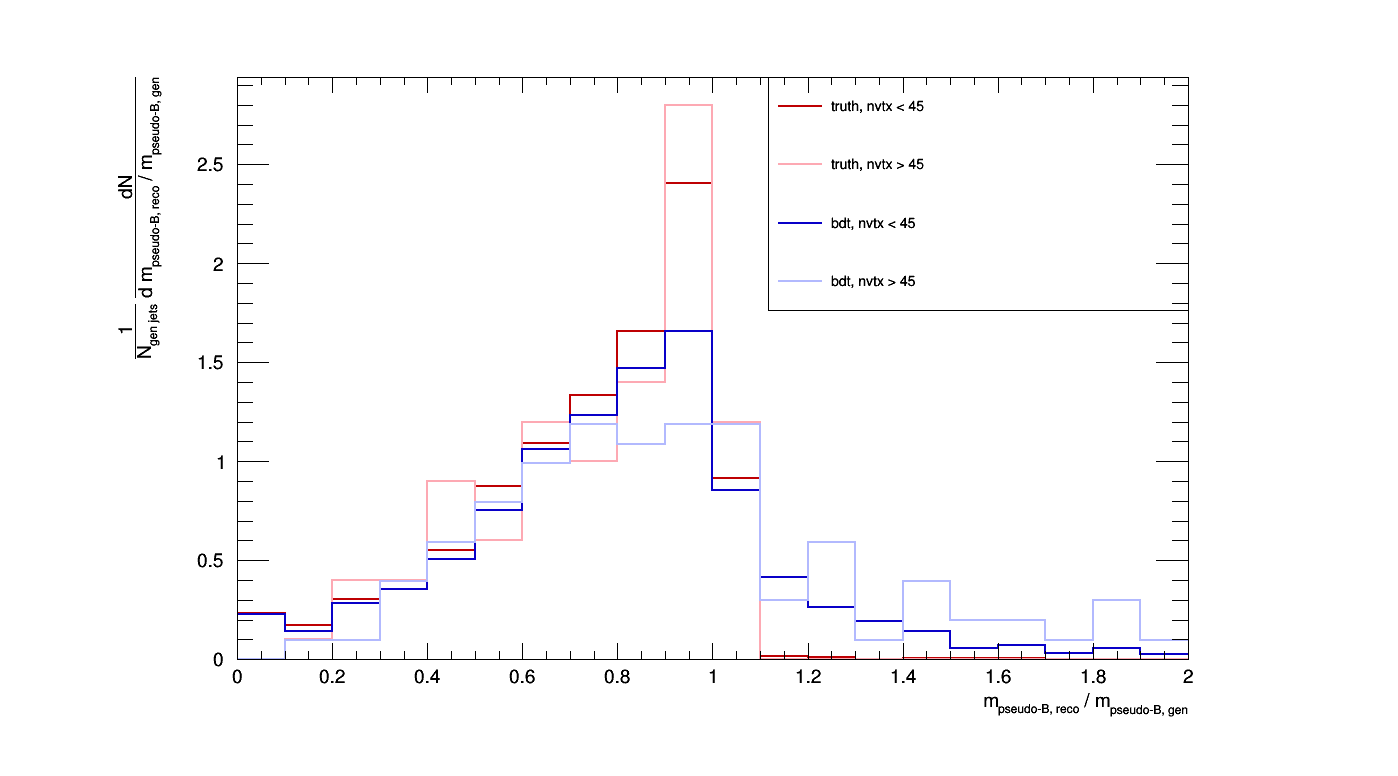
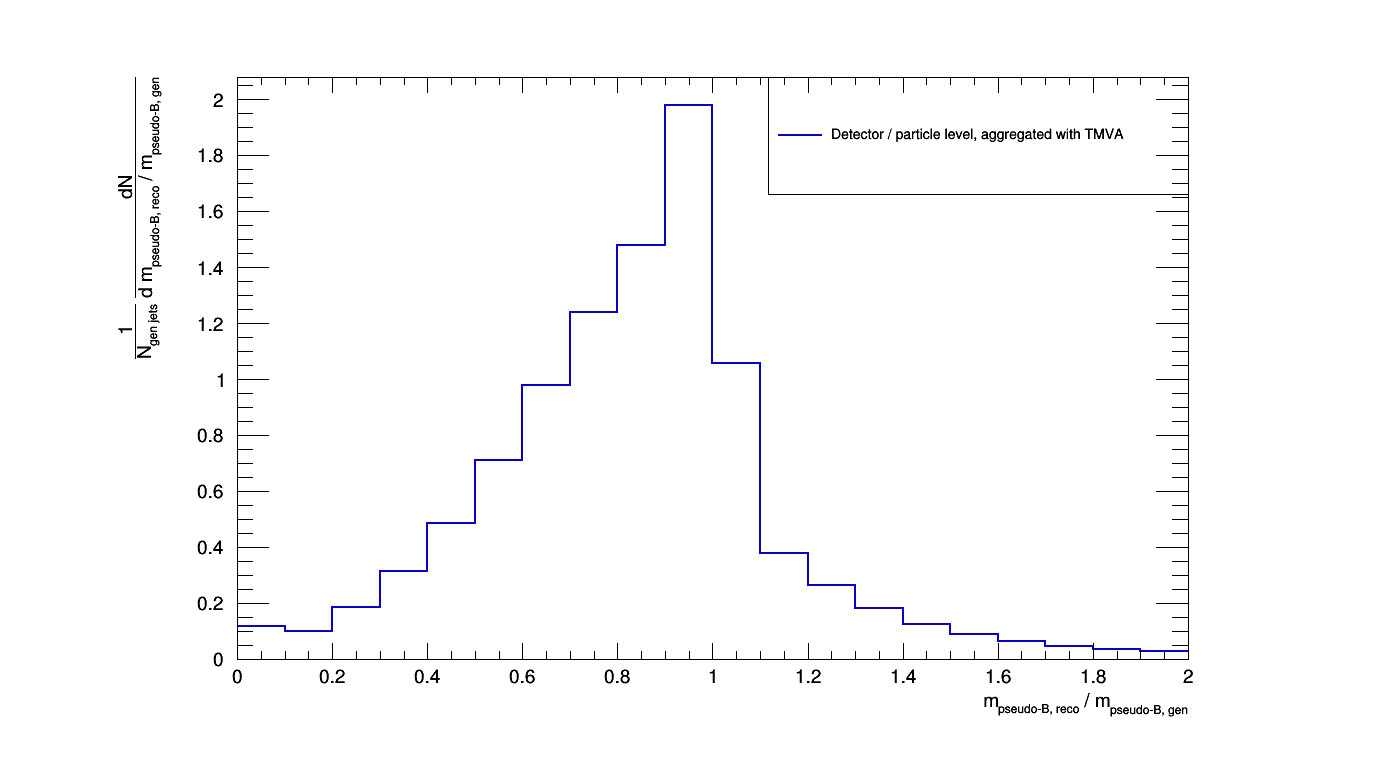
update mB plot

diff --git a/myMacros/C106X/draw_mB.C b/myMacros/C106X/draw_mB.C
@@ -59,90 +59,90 @@ void draw_mB()
     // cTest->Draw();
 
     // ---- Load the histos
-    TString fdir = "./histos/";
-    TString label = "mB";
-    TString suffix_truth = "_truth";
-    TString fname_truth = label + suffix_truth + ".root";
-    TString rootf_truth = fdir + fname_truth;
+    TString indir = "./histos/";
+    // TString fdir = "./histos/";
+    // TString label = "mB";
+    // TString suffix_truth = "_truth";
+    // TString fname_truth = label + suffix_truth + ".root";
+    // TString rootf_truth = fdir + fname_truth;
 
-    TFile *fin_truth = new TFile(rootf_truth);
+    // TFile *fin_truth = new TFile(rootf_truth);
 
-    TH3D *hmB_truth_3d = (TH3D *)fin_truth->Get("hmBtag");
-    hmB_truth_3d->SetName(TString(hmB_truth_3d->GetName()) + "_truth");
+    // TH3D *hmB_truth_3d = (TH3D *)fin_truth->Get("hmBtag");
+    // hmB_truth_3d->SetName(TString(hmB_truth_3d->GetName()) + "_truth");
 
-    TString suffix_bdt = "_bdt29";
-    TString fname_bdt = label + suffix_bdt + ".root";
-    TString rootf_bdt = fdir + fname_bdt;
+    // TString suffix_bdt = "_bdt29";
+    TString label_aggrTMVA = "aggrTMVA";
+    TString fname_aggrTMVA = indir + label_aggrTMVA + "_mB.root";
 
-    TFile *fin_bdt = new TFile(rootf_bdt);
+    TFile *fin_aggrTMVA = new TFile(fname_aggrTMVA);
 
-    TH3D *hmB_bdt_3d = (TH3D *)fin_bdt->Get("hmBtag");
-    hmB_bdt_3d->SetName(TString(hmB_bdt_3d->GetName()) + "_bdt");
+    TH3D *hBtag_mB_ratio = (TH3D *)fin_aggrTMVA->Get("hBtag_mB_ratio");
+    hBtag_mB_ratio->SetName(TString(hBtag_mB_ratio->GetName()) + "_" + label_aggrTMVA);
 
     // ---- Find bins 
-    Int_t iyminLow = 1;
-    Int_t iymaxLow = hmB_truth_3d->GetYaxis()->FindBin(lowNvtxMax) - 1;
-
-    Int_t iyminHigh = hmB_truth_3d->GetYaxis()->FindBin(highNvtxMin);
-    Int_t iymaxHigh = hmB_truth_3d->GetYaxis()->GetNbins();
-
     // Int_t iyminLow = 1;
-    // Int_t iymaxLow = hmB_truth_3d->GetNbinsY();
+    // Int_t iymaxLow = hmB_truth_3d->GetYaxis()->FindBin(lowNvtxMax) - 1;
 
-    // Int_t iyminHigh = 1;
-    // Int_t iymaxHigh = hmB_truth_3d->GetNbinsY();
+    // Int_t iyminHigh = hmB_truth_3d->GetYaxis()->FindBin(highNvtxMin);
+    // Int_t iymaxHigh = hmB_truth_3d->GetYaxis()->GetNbins();
 
-    Int_t izmin = hmB_truth_3d->GetZaxis()->FindBin(ptMin);
-    Int_t izmax = hmB_truth_3d->GetZaxis()->FindBin(ptMax) - 1;
+    Int_t iyminLow = 1;
+    Int_t iymaxLow = hBtag_mB_ratio->GetNbinsY();
+
+    Int_t iyminHigh = 1;
+    Int_t iymaxHigh = hBtag_mB_ratio->GetNbinsY();
+
+    Int_t izmin = hBtag_mB_ratio->GetZaxis()->FindBin(ptMin);
+    Int_t izmax = hBtag_mB_ratio->GetZaxis()->FindBin(ptMax) - 1;
 
     Int_t ixmin = 1; // do not include underflow where mB > 0 and mBgen == 0
-    Int_t ixmax = hmB_truth_3d->GetXaxis()->GetNbins() + 1;
+    Int_t ixmax = hBtag_mB_ratio->GetXaxis()->GetNbins() + 1;
 
     // ---- Prepare plot
-    THStack *hmBStack = new THStack("hmBStack", "hmB");
-    hmBStack->SetTitle("; m_{pseudo-B, reco} / m_{pseudo-B, gen}; #frac{1}{N_{gen jets}} #frac{dN}{d m_{pseudo-B, reco} / m_{pseudo-B, gen}}");
+    THStack *hStack_mB_ratio = new THStack("hStack_mB_ratio", "hBtag_mB");
+    hStack_mB_ratio->SetTitle("; m_{pseudo-B, reco} / m_{pseudo-B, gen}; #frac{1}{N_{gen jets}} #frac{dN}{d m_{pseudo-B, reco} / m_{pseudo-B, gen}}");
 
-    TLegend *legmB = new TLegend(0.55, 0.6, 0.85, 0.9);
+    TLegend *legmB = new TLegend(0.55, 0.75, 0.85, 0.9);
     legmB->SetFillStyle(0);
     legmB->SetBorderSize(1);
     legmB->SetMargin(0.15);
 
     // ---- Make projections 
-    TH1D *hmB_truth_lowNvtx = (TH1D *) hmB_truth_3d->ProjectionX("hmB_truth_lowNvtx", iyminLow, iymaxLow, izmin, izmax);
-    normalize_histo(hmB_truth_lowNvtx, ixmin, ixmax);
-    format_histo(hmB_truth_lowNvtx, mykRed);
-    hmBStack->Add(hmB_truth_lowNvtx);
-    legmB->AddEntry(hmB_truth_lowNvtx, Form("truth, nvtx < %.0f", lowNvtxMax), "l");
+    // TH1D *hmB_truth_lowNvtx = (TH1D *) hmB_truth_3d->ProjectionX("hmB_truth_lowNvtx", iyminLow, iymaxLow, izmin, izmax);
+    // normalize_histo(hmB_truth_lowNvtx, ixmin, ixmax);
+    // format_histo(hmB_truth_lowNvtx, mykRed);
+    // hStack_mB_ratio->Add(hmB_truth_lowNvtx);
+    // legmB->AddEntry(hmB_truth_lowNvtx, Form("truth, nvtx < %.0f", lowNvtxMax), "l");
     // legmB->AddEntry(hmB_truth_lowNvtx, "truth", "l");
 
-    TH1D *hmB_truth_highNvtx = (TH1D *) hmB_truth_3d->ProjectionX("hmB_truth_highNvtx", iyminHigh, iymaxHigh, izmin, izmax);
-    normalize_histo(hmB_truth_highNvtx, ixmin, ixmax);
-    format_histo(hmB_truth_highNvtx, mykRedLight);
-    hmBStack->Add(hmB_truth_highNvtx);
-    legmB->AddEntry(hmB_truth_highNvtx, Form("truth, nvtx > %.0f", highNvtxMin), "l");
+    // TH1D *hmB_truth_highNvtx = (TH1D *) hmB_truth_3d->ProjectionX("hmB_truth_highNvtx", iyminHigh, iymaxHigh, izmin, izmax);
+    // normalize_histo(hmB_truth_highNvtx, ixmin, ixmax);
+    // format_histo(hmB_truth_highNvtx, mykRedLight);
+    // hStack_mB_ratio->Add(hmB_truth_highNvtx);
+    // legmB->AddEntry(hmB_truth_highNvtx, Form("truth, nvtx > %.0f", highNvtxMin), "l");
 
-    TH1D *hmB_bdt_lowNvtx = (TH1D *) hmB_bdt_3d->ProjectionX("hmB_bdt_lowNvtx", iyminLow, iymaxLow, izmin, izmax);
-    normalize_histo(hmB_bdt_lowNvtx, ixmin, ixmax);
-    format_histo(hmB_bdt_lowNvtx, mykBlue);
-    hmBStack->Add(hmB_bdt_lowNvtx);
-    legmB->AddEntry(hmB_bdt_lowNvtx, Form("bdt, nvtx < %.0f", lowNvtxMax), "l");
-    // legmB->AddEntry(hmB_bdt_lowNvtx, "bdt", "l");
+    TH1D *hBtag_mB_ratio_lowNvtx = (TH1D *) hBtag_mB_ratio->ProjectionX("hBtag_mB_ratio_lowNvtx", iyminLow, iymaxLow, izmin, izmax);
+    normalize_histo(hBtag_mB_ratio_lowNvtx, ixmin, ixmax);
+    format_histo(hBtag_mB_ratio_lowNvtx, mykBlue);
+    hStack_mB_ratio->Add(hBtag_mB_ratio_lowNvtx);
+    // legmB->AddEntry(hBtag_mB_ratio_lowNvtx, Form("bdt, nvtx < %.0f", lowNvtxMax), "l");
+    legmB->AddEntry(hBtag_mB_ratio_lowNvtx, "Detector / particle level, aggregated with TMVA", "l");
 
-    TH1D *hmB_bdt_highNvtx = (TH1D *) hmB_bdt_3d->ProjectionX("hmB_bdt_highNvtx", iyminHigh, iymaxHigh, izmin, izmax);
-    normalize_histo(hmB_bdt_highNvtx, ixmin, ixmax);
-    format_histo(hmB_bdt_highNvtx, mykBlueLight);
-    hmBStack->Add(hmB_bdt_highNvtx);
-    legmB->AddEntry(hmB_bdt_highNvtx, Form("bdt, nvtx > %.0f", highNvtxMin), "l");
+    TH1D *hBtag_mB_ratio_highNvtx = (TH1D *) hBtag_mB_ratio->ProjectionX("hBtag_mB_ratio_highNvtx", iyminHigh, iymaxHigh, izmin, izmax);
+    normalize_histo(hBtag_mB_ratio_highNvtx, ixmin, ixmax);
+    format_histo(hBtag_mB_ratio_highNvtx, mykBlueLight);
+    // hStack_mB_ratio->Add(hmB_bdt_highNvtx);
+    // legmB->AddEntry(hmB_bdt_highNvtx, Form("bdt, nvtx > %.0f", highNvtxMin), "l");
 
     // ---- Draw the histos
     TCanvas *cmB = new TCanvas("cmB", "", 1400, 800);
 
     cmB->cd();
-    hmBStack->Draw("histo nostack");
+    hStack_mB_ratio->Draw("histo nostack");
     legmB->Draw();
     cmB->Draw();
 
-    TString cname = Form("./plots/combined_mB_%.0f_nvtx_%.0f", lowNvtxMax, highNvtxMin) + suffix_bdt + ".png";
-    // TString cname = "./plots/combined_mB_no_nvtx_cut" + suffix_bdt + ".png";
+    TString cname = Form("./plots/combined_mB_%.0f_nvtx_%.0f.png", lowNvtxMax, highNvtxMin);
     cmB->Print(cname);
 }

diff --git a/myMacros/C106X/plot_mB.C b/myMacros/C106X/plot_mB.C
@@ -10,13 +10,16 @@
 void plot_mB()
 {
     // ---- Load tree
-    TString fdir = "/home/llr/cms/kalipoliti/C10630p1_miniAOD/src/HeavyIonsAnalysis/Configuration/test/rootf/";
-    TString label = "HiForestMiniAOD_HighPU_10000events_conmatch";
-    TString suffix = "_bdt44";
-    TString fname = label + suffix + ".root";
-    TString rootf = fdir + fname;
+    TString label = "aggrTMVA";
+    TString indir = "/data_CMS/cms/kalipoliti/ttbarMC/highPU/" + label + "/";
+    TString fin = indir + "merged_HiForestMiniAOD.root";
+    // TString fdir = "/home/llr/cms/kalipoliti/C10630p1_miniAOD/src/HeavyIonsAnalysis/Configuration/test/rootf/";
+    // TString label = "HiForestMiniAOD_HighPU_10000events_conmatch";
+    // TString suffix = "_bdt44_sig_vs_bkg";
+    // TString fname = label + suffix + ".root";
+    // TString rootf = fdir + fname;
 
-    tTree t = tTree(rootf);
+    tTree t = tTree(fin);
 
     std::vector<TString> activeBranches_t = {"nref", "nvtx",
                                              "jtHadFlav", "jtpt", "jteta", "jtphi", 
@@ -32,6 +35,11 @@ void plot_mB()
     Float_t x1min = 0.;
     Float_t x1max = 2.;
 
+    // mB
+    Int_t x2bins = 7*4;
+    Float_t x2min = 0.;
+    Float_t x2max = 7.;
+
     // nvtx
     Int_t y1bins = 20;
     Float_t y1min = 0.;
@@ -42,17 +50,23 @@ void plot_mB()
     Float_t z1min = 30.;
     Float_t z1max = 300.;
 
-    TH3D *hmB = new TH3D("hmB", "x=mBreco/mBgen, y=nvtx, z=jtpt", x1bins, x1min, x1max, y1bins, y1min, y1max, z1bins, z1min, z1max);
-    TH3D *hmBtag = new TH3D("hmBtag", "x=mBreco/mBgen, y=nvtx, z=jtpt", x1bins, x1min, x1max, y1bins, y1min, y1max, z1bins, z1min, z1max);
+    TH3D *hB_mB_ratio = new TH3D("hB_mB_ratio", "x=mBreco/mBgen, y=nvtx, z=jtpt", x1bins, x1min, x1max, y1bins, y1min, y1max, z1bins, z1min, z1max);
+    TH3D *hBtag_mB_ratio = new TH3D("hBtag_mB_ratio", "x=mBreco/mBgen, y=nvtx, z=jtpt", x1bins, x1min, x1max, y1bins, y1min, y1max, z1bins, z1min, z1max);
+
+    TH2D *hB_mB = new TH2D("hB_mB", "x=mBreco, y=jtpt", x2bins, x2min, x2max, y1bins, z1min, z1max);
+    TH2D *hBtag_mB = new TH2D("hBtag_mB", "x=mBreco, y=jtpt", x2bins, x2min, x2max, z1bins, z1min, z1max);
+
+    TH2D *hB_mB_gen = new TH2D("hB_mB_gen", "x=mB_gen, y=jtpt", x2bins, x2min, x2max, y1bins, z1min, z1max);
+    TH2D *hBtag_mB_gen = new TH2D("hBtag_mB_gen", "x=mB_gen, y=jtpt", x2bins, x2min, x2max, z1bins, z1min, z1max);
 
     Long64_t nentries = t.GetEntries();
     for (Long64_t ient = 0; ient < nentries; ient++) {
         t.GetEntry(ient);  
 
         // Print progress
-        if (ient % 1000 == 0) {
+        if (ient % 100000 == 0) {
             std::cout << "ient = " << ient << std::endl;
-            std::cout << "nref = " << t.nref << std::endl;
+            // std::cout << "nref = " << t.nref << std::endl;
         }
 
         for (int ijet = 0; ijet < t.nref; ijet++) {
@@ -87,17 +101,28 @@ void plot_mB()
             Int_t nvtx = t.nvtx;
             Float_t jtpt = t.jtpt[ijet];            
 
-            hmB->Fill(ratio, nvtx, jtpt);
-            if (passWP) hmBtag->Fill(ratio, nvtx, jtpt);
+            hB_mB_ratio->Fill(ratio, nvtx, jtpt);
+            hB_mB->Fill(mB, jtpt);
+            hB_mB_gen->Fill(mB_gen, jtpt);
+            if (passWP) {
+                hBtag_mB_ratio->Fill(ratio, nvtx, jtpt);
+                hBtag_mB->Fill(mB, jtpt);
+                hBtag_mB_gen->Fill(mB_gen, jtpt);
+            }
         } // end jet loop
     } // end entries loop
 
     // Save histograms 
-    TString rootf_out = "./histos/mB" + suffix + ".root";
+    TString rootf_out = "./histos/" + label + "_mB.root";
     TFile *fout = new TFile(rootf_out, "recreate");
     std::cout << "(Re)creating " << rootf_out << " file." << std::endl;
 
-    for (TH3D *h : {hmB, hmBtag}) {
+    for (TH3D *h : {hB_mB_ratio, hBtag_mB_ratio}) {
+        h->Write();
+    }
+
+    for (TH2D *h : {hB_mB, hBtag_mB,
+                    hB_mB_gen, hBtag_mB_gen}) {
         h->Write();
     }
 
